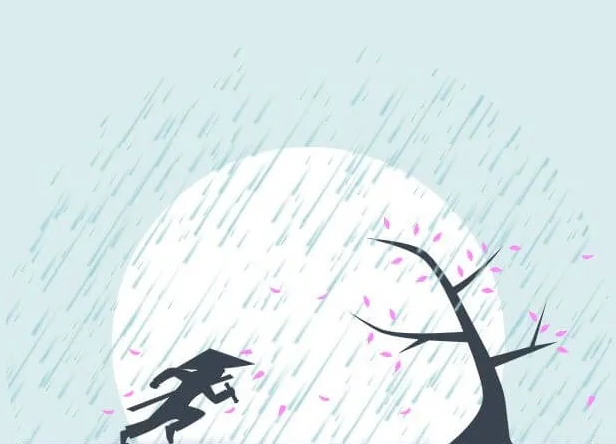
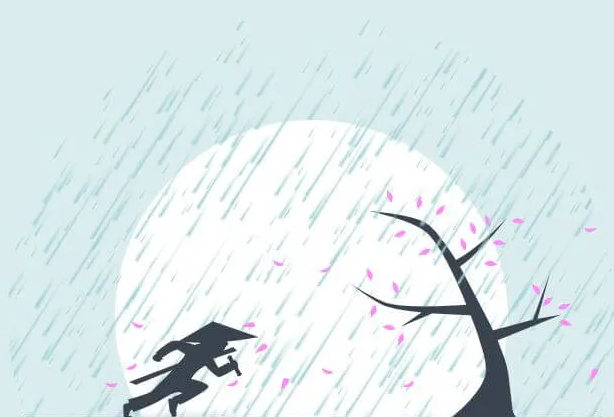
style, strtucture & img update

diff --git a/css/main.css b/css/main.css
@@ -1,0 +1,45 @@
+body{
+    display: flex;
+    align-items: center;
+    justify-content: center;
+    height: 100vh;
+    margin: 0;
+    padding: 0;
+    background-color: #daeced;
+}
+
+main{
+    display: flex;
+    flex-direction: column;
+    align-items: center;
+    justify-content: space-between;
+    clip-path: circle(50% at 50% 50%);
+    box-shadow: none;
+    padding: 0;
+    margin: 0;    margin: 0;
+    height: 620px;
+    width: 612px;
+    background-color: #3a4450;
+}
+
+h1{
+    color: #e0e8f1;
+    font-weight: 200;
+    font-size: 1.5em;
+    margin: 0;
+}
+
+p{
+    color: #788ea0;
+    font-weight: 200;
+    font-size: 0.9em;
+    margin-bottom: 50px;
+}
+
+.shape{
+    display: flex;
+    flex-direction: column;
+    align-items: flex;
+    justify-content: center;
+    height: 204px;
+}

diff --git a/index.html b/index.html
@@ -9,7 +9,7 @@
 </head>
 <body>
     <main>
-        <img src="" alt="404 page not found">
+        <img src="./css/img/main.png" alt="404 page not found">
         <div class="shape">
             <h1>A ninja stole this page.</h1>
             <p>You must return when the<br>moon has friends and the<br>fox is borrowed.</p>
